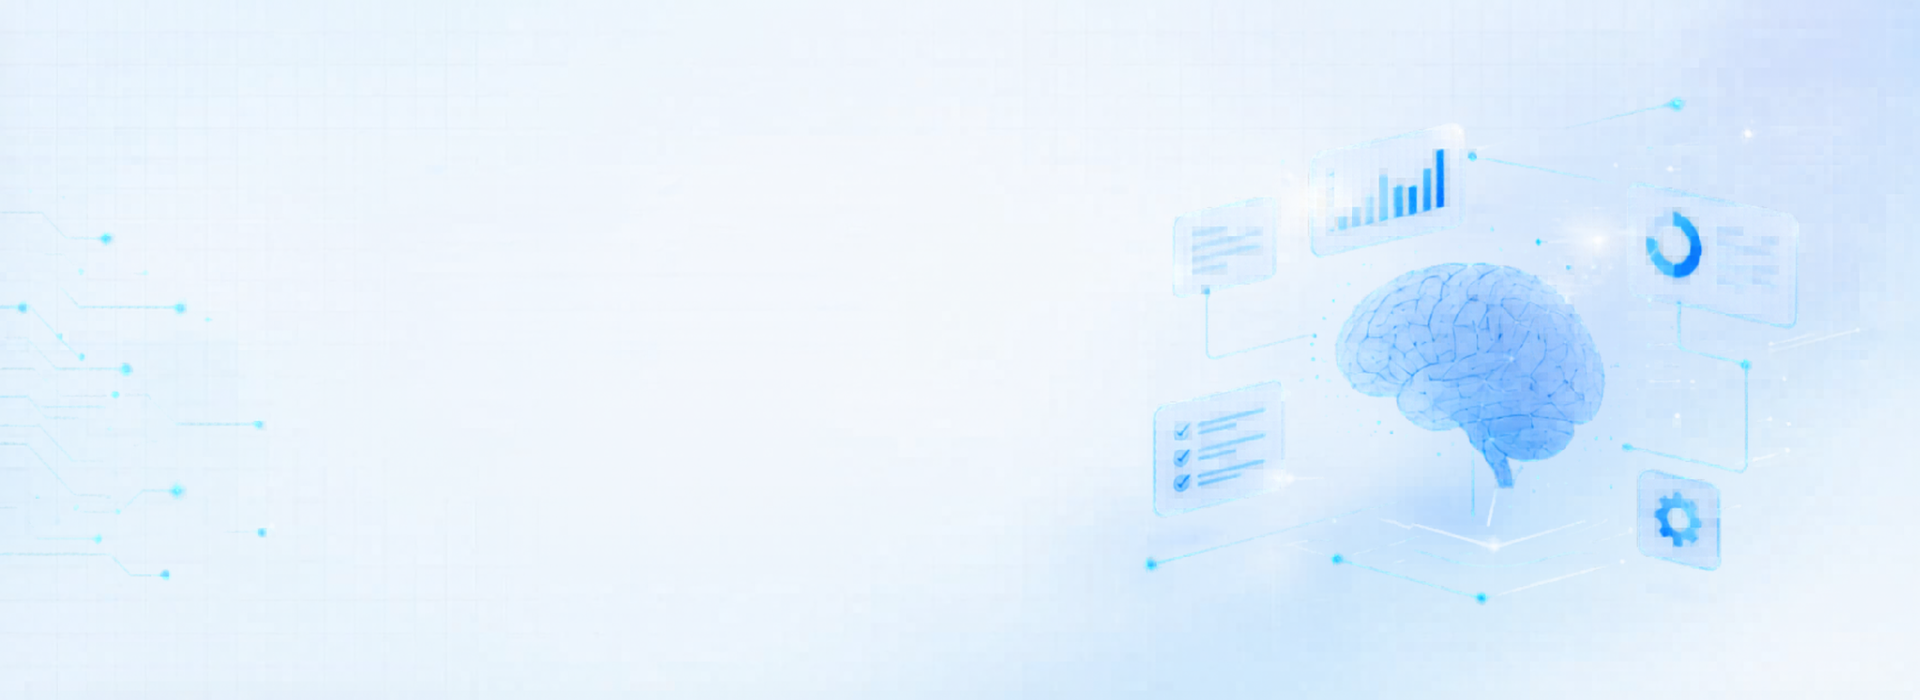
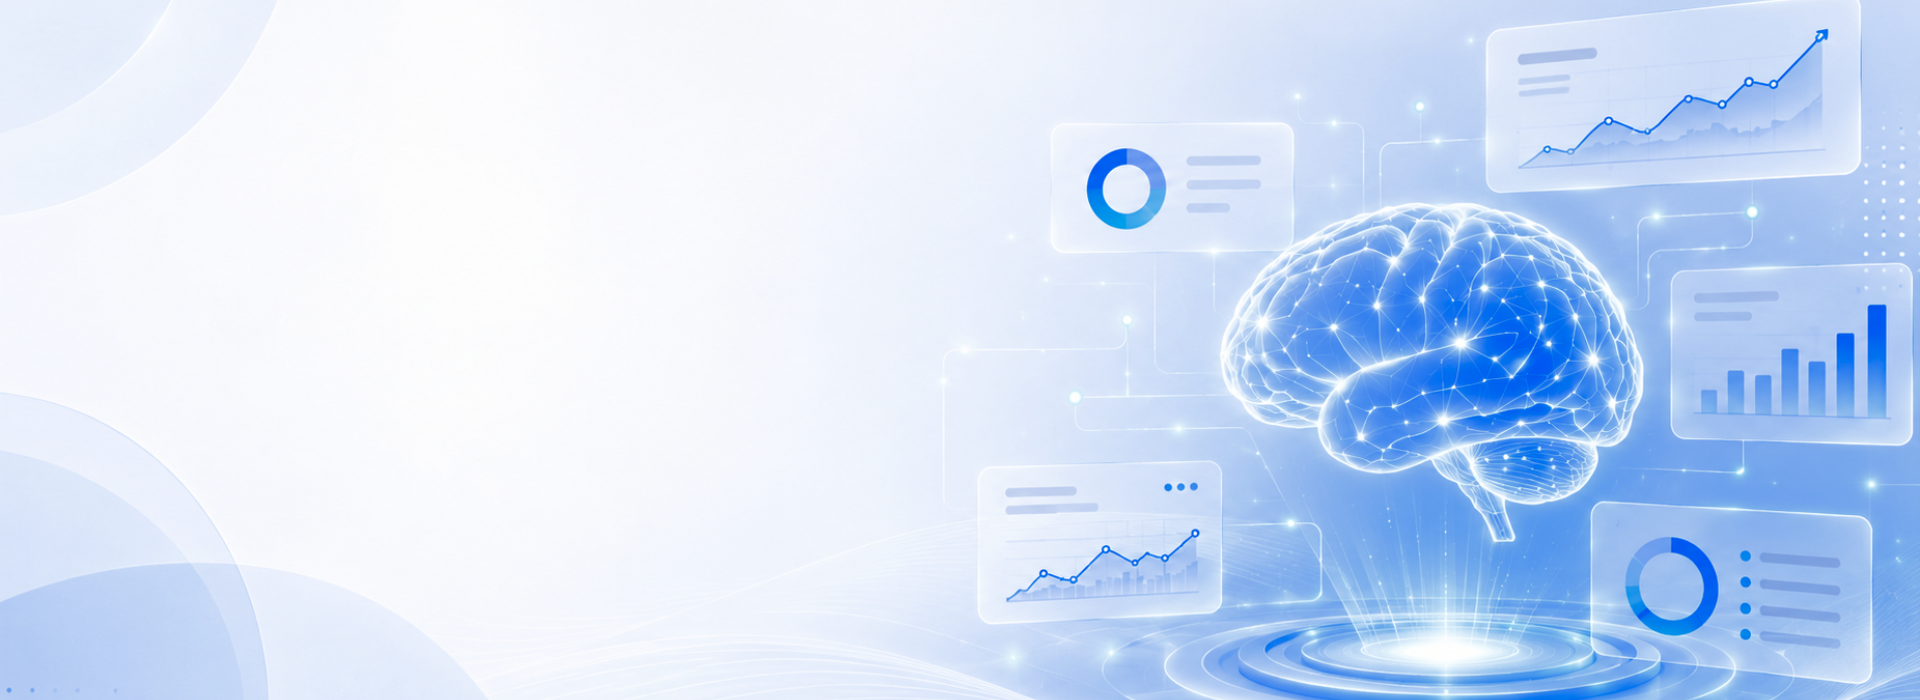
Update content and image

diff --git a/client/src/pages/QuizAI.tsx b/client/src/pages/QuizAI.tsx
@@ -2,7 +2,6 @@ import { useMemo, useState } from "react";
 import { useLocation } from "wouter";
 
 import { FinalCTA } from "@/components/ui/cta/FinalCTA";
-import { InternalHero } from "@/components/ui/hero/InternalHero";
 import { quizContentEn } from "@/content/en/quiz";
 import { quizContentPt } from "@/content/pt/quiz";
 import { Icons } from "@/lib/icons";
@@ -29,6 +28,22 @@ export default function QuizAI() {
   const content = quizContent[lang];
   const questions = content.questions;
   const question = questions[current];
+  const startIntro =
+    lang === "en"
+      ? {
+          badge: "Free quiz · 3 minutes",
+          title: "What is the AI potential",
+          highlight: "in your business?",
+          subtitle: "Answer 10 questions about your business and discover where artificial intelligence can have the biggest impact, with a personalized report at the end.",
+          stats: ["3 minutes", "10 questions", "Instant result"],
+        }
+      : {
+          badge: "Quiz gratuito · 3 minutos",
+          title: "Qual o potencial de IA",
+          highlight: "no seu negócio?",
+          subtitle: "Responda a 10 perguntas sobre o seu negócio e descubra em que áreas a inteligência artificial pode ter mais impacto — com um relatório personalizado no final.",
+          stats: ["3 minutos", "10 perguntas", "Resultado imediato"],
+        };
 
   const result = useMemo(() => {
     return content.results.find((item) => score <= item.max) ?? content.results[content.results.length - 1];
@@ -68,8 +83,6 @@ export default function QuizAI() {
 
   return (
     <main className="quiz-ai-page">
-      <InternalHero label={content.badge} title={content.title} highlight={`${content.highlight}?`} subtitle={content.subtitle} compact />
-
       <section className="quiz-experience">
         <div className="quiz-bg-radials" />
 
@@ -77,22 +90,36 @@ export default function QuizAI() {
           <div className="quiz-screen quiz-start anim-in">
             <div className="quiz-start-inner">
               <div className="quiz-badge anim-in anim-d1">
-                <Icons.Zap size={14} />
-                <span>{content.badge}</span>
+                <span className="quiz-badge-dot" aria-hidden="true" />
+                <span>{startIntro.badge}</span>
               </div>
 
               <h2 className="quiz-title anim-in anim-d2">
-                {content.title} <span className="neon-blue neon-text-glow">{content.highlight}</span>?
+                <span>{startIntro.title}</span>
+                <span className="quiz-title-highlight">{startIntro.highlight}</span>
               </h2>
 
-              <p className="quiz-subtitle anim-in anim-d3">{content.subtitle}</p>
+              <p className="quiz-subtitle anim-in anim-d3">{startIntro.subtitle}</p>
+
+              <div className="quiz-start-stats anim-in anim-d3" aria-label={content.duration}>
+                <span>
+                  <Icons.Clock size={18} />
+                  {startIntro.stats[0]}
+                </span>
+                <span>
+                  <Icons.Target size={18} />
+                  {startIntro.stats[1]}
+                </span>
+                <span>
+                  <Icons.BarChart3 size={18} />
+                  {startIntro.stats[2]}
+                </span>
+              </div>
 
               <button type="button" onClick={startQuiz} className="quiz-main-btn">
                 {content.startButton}
                 <Icons.ArrowRight size={18} />
               </button>
-
-              <p className="quiz-duration">{content.duration}</p>
             </div>
           </div>
         )}

diff --git a/client/src/styles/quizAI.css b/client/src/styles/quizAI.css
@@ -28,14 +28,30 @@
 .neon-text-glow { text-shadow: 0 0 10px rgba(10, 180, 255, 0.25), 0 0 20px rgba(85, 212, 242, 0.15); }
 .quiz-screen { position: relative; z-index: 2; min-height: 100vh; padding: 24px; display: flex; align-items: center; justify-content: center; }
 .quiz-start, .quiz-result { flex-direction: column; text-align: center; }
+.quiz-start {
+  min-height: calc(100vh - 112px);
+  padding: 72px 24px 64px;
+  background-color: #f8fbff;
+  background-image:
+    linear-gradient(rgba(10, 132, 255, 0.055) 1px, transparent 1px),
+    linear-gradient(90deg, rgba(10, 132, 255, 0.055) 1px, transparent 1px),
+    radial-gradient(circle at 92% 12%, rgba(10, 132, 255, 0.08), transparent 34%);
+  background-size: 73px 73px, 73px 73px, auto;
+}
 .quiz-start-inner, .quiz-result-inner { width: 100%; max-width: 760px; display: flex; flex-direction: column; align-items: center; text-align: center; }
+.quiz-start-inner { max-width: 940px; }
 .quiz-logo { max-width: 400px; width: 80%; max-height: 100px; object-fit: contain; margin-bottom: 32px; }
-.quiz-badge { display: inline-flex; align-items: center; justify-content: center; gap: 8px; margin-bottom: 16px; padding: 6px 14px; border: 1px solid rgba(10, 180, 255, 0.24); border-radius: 999px; background: rgba(10, 180, 255, 0.08); color: var(--accent-mid); font-family: var(--font-detail); font-size: 12px; font-weight: 700; letter-spacing: 0.18em; text-transform: uppercase; }
-.quiz-title { max-width: 760px; margin: 0 0 16px; font-family: var(--font-heading); font-size: clamp(2rem, 5vw, 4rem); font-weight: 800; line-height: 1.05; text-align: center; color: #001547; }
-.quiz-title .neon-blue, .quiz-title span { color: var(--accent-mid); }
-.quiz-subtitle { max-width: 640px; width: 100%; margin: 0 auto 32px; color: rgba(0, 21, 71, 0.76); font-size: 16px; line-height: 1.6; text-align: center; }
-.quiz-main-btn { display: inline-flex; align-items: center; justify-content: center; gap: 10px; border: 1px solid rgba(85, 212, 242, 0.32); border-radius: 14px; padding: 14px 32px; background: var(--button-bg); color: #EAF6FF; font-family: var(--font-heading); font-size: 15px; font-weight: 800; text-decoration: none; cursor: pointer; box-shadow: 0 0 15px rgba(10, 180, 255, 0.20), 0 0 40px rgba(85, 212, 242, 0.08); transition: transform 0.25s ease, border-color 0.25s ease, background 0.25s ease; }
-.quiz-main-btn:hover { transform: scale(1.03); background: #0ab4ff; border-color: rgba(85, 212, 242, 0.48); }
+.quiz-badge { display: inline-flex; align-items: center; justify-content: center; gap: 10px; margin-bottom: 36px; padding: 10px 22px; border: 1px solid rgba(10, 132, 255, 0.28); border-radius: 999px; background: rgba(221, 237, 255, 0.86); color: rgba(0, 21, 71, 0.58); font-family: var(--font-heading); font-size: 14px; font-weight: 800; letter-spacing: 0.18em; text-transform: uppercase; box-shadow: inset 0 0 0 1px rgba(255, 255, 255, 0.45); }
+.quiz-badge-dot { width: 8px; height: 8px; border-radius: 999px; background: #0877ff; box-shadow: 0 0 16px rgba(8, 119, 255, 0.35); }
+.quiz-title { max-width: 840px; margin: 0 0 18px; font-family: "Playfair Display", var(--font-heading) !important; font-size: clamp(3rem, 7vw, 5.25rem) !important; font-weight: 800; line-height: 1.12; text-align: center; color: #000246; letter-spacing: 0; }
+.quiz-title span { display: block; }
+.quiz-title .quiz-title-highlight { color: #0877ff; }
+.quiz-subtitle { max-width: 900px; width: 100%; margin: 0 auto 54px; color: rgba(0, 21, 71, 0.52); font-family: var(--font-heading); font-size: clamp(1.05rem, 2vw, 1.38rem); line-height: 1.08; text-align: center; }
+.quiz-start-stats { display: flex; flex-wrap: wrap; align-items: center; justify-content: center; gap: 34px; margin-bottom: 54px; color: rgba(0, 21, 71, 0.48); font-family: var(--font-heading); font-size: 16px; font-weight: 500; }
+.quiz-start-stats span { display: inline-flex; align-items: center; gap: 12px; white-space: nowrap; }
+.quiz-start-stats svg { color: #0877ff; stroke-width: 2.2; }
+.quiz-main-btn { display: inline-flex; align-items: center; justify-content: center; gap: 14px; border: 1px solid #0877ff; border-radius: 999px; min-width: 318px; min-height: 72px; padding: 18px 42px; background: #0877ff; color: #fff; font-family: var(--font-heading) !important; font-size: 19px !important; font-weight: 900; text-transform: uppercase; text-decoration: none; cursor: pointer; box-shadow: 0 18px 34px rgba(8, 119, 255, 0.22); transition: transform 0.25s ease, border-color 0.25s ease, background 0.25s ease, box-shadow 0.25s ease; }
+.quiz-main-btn:hover { transform: translateY(-2px); background: #0068e8; border-color: #0068e8; box-shadow: 0 22px 42px rgba(8, 119, 255, 0.28); }
 .quiz-duration { margin-top: 16px; color: rgba(0, 21, 71, 0.68); font-family: var(--font-detail); font-size: 12px; text-align: center; }
 .quiz-container { width: 100%; max-width: 768px; overflow: visible; }
 .quiz-topline { display: flex; justify-content: space-between; margin-bottom: 12px; font-family: var(--font-detail); font-size: 13px; color: #012050; font-weight: 800; }
@@ -76,4 +92,4 @@
 .anim-d3 { animation-delay: 0.3s; }
 @keyframes fadeUp { from { opacity: 0; transform: translateY(20px); } to { opacity: 1; transform: translateY(0); } }
 @media (min-width: 768px) { .quiz-subtitle, .quiz-main-btn, .quiz-topline, .quiz-option, .quiz-option span, .quiz-feedback, .quiz-result > p, .quiz-result-inner > p, .quiz-cta-card h3, .quiz-cta-card p, .quiz-restart { font-size: 14px; } }
-@media (max-width: 640px) { .quiz-screen { padding: 20px; } .quiz-card { padding: 22px; } .quiz-option { font-size: 12px; } .quiz-main-btn { width: 100%; } }
+@media (max-width: 640px) { .quiz-screen { padding: 20px; } .quiz-start { min-height: auto; padding: 48px 18px 56px; background-size: 42px 42px, 42px 42px, auto; } .quiz-badge { margin-bottom: 28px; padding: 9px 14px; font-size: 11px; letter-spacing: 0.14em; } .quiz-title { font-size: clamp(2.45rem, 14vw, 3.8rem) !important; line-height: 1.04; } .quiz-subtitle { margin-bottom: 36px; font-size: 16px; line-height: 1.28; } .quiz-start-stats { gap: 16px; margin-bottom: 36px; font-size: 14px; } .quiz-card { padding: 22px; } .quiz-option { font-size: 12px; } .quiz-main-btn { width: 100%; min-width: 0; min-height: 64px; padding: 16px 24px; font-size: 16px !important; } }

diff --git a/client/src/components/ui/navigation/NavLink.tsx b/client/src/components/ui/navigation/NavLink.tsx
@@ -2,7 +2,6 @@ import { cn } from "@/lib/utils";
 import { cva } from "class-variance-authority";
 import { Link, useLocation } from "wouter";
 import { useMagnetic } from "@/hooks/useMagnetic";
-import { useTheme } from "@/hooks/useTheme";
 
 const navLinkVariants = cva(
   `
@@ -15,7 +14,8 @@ const navLinkVariants = cva(
     variants: {
       variant: {
         default: `
-          text-[var(--brand-primary)] hover:text-[var(--brand-cyan-bright)]
+          text-[#001547]/72 hover:text-[var(--brand-primary)]
+          dark:text-[var(--brand-primary)] dark:hover:text-[var(--brand-cyan-bright)]
 
           after:absolute after:left-0 after:-bottom-2
           after:h-[2px] after:w-full
@@ -42,7 +42,7 @@ const navLinkVariants = cva(
 
       active: {
         true: `
-          text-[var(--brand-deep)] dark:text-[var(--brand-offwhite)]
+          text-[var(--brand-primary)] dark:text-[var(--brand-offwhite)]
 
           after:absolute after:left-0 after:-bottom-2
           after:h-[2px] after:w-full
@@ -75,10 +75,8 @@ export function NavLink({
   onClick
 }: Props) {
   const [location] = useLocation();
-  const { theme } = useTheme();
 
   const isActive = location === href;
-  const activeColor = theme === "dark" ? "var(--brand-offwhite)" : "var(--brand-deep)";
 
   const magnetic = useMagnetic(16);
 
@@ -88,7 +86,6 @@ export function NavLink({
         ref={magnetic.ref}
         onMouseMove={magnetic.onMouseMove}
         onMouseLeave={magnetic.onMouseLeave}
-        style={isActive ? { color: activeColor } : undefined}
         className={cn(
           navLinkVariants({ variant, active: isActive }),
           "inline-block transition-transform duration-300 ease-out",

diff --git a/client/src/components/Header.tsx b/client/src/components/Header.tsx
@@ -6,7 +6,6 @@ import { LanguageSelector } from "@/components/LanguageSelector";
 import { ThemeToggle } from "@/components/ThemeToggle";
 import { PremiumButton } from "@/components/ui/button/PremiumButton";
 import { NavLink } from "@/components/ui/navigation/NavLink";
-import { useTheme } from "@/hooks/useTheme";
 import { useTranslation } from "@/hooks/useTranslation";
 import { Icons } from "@/lib/icons";
 import { cn } from "@/lib/utils";
@@ -17,11 +16,9 @@ interface HeaderProps {
 
 export default function Header({ onContactClick }: HeaderProps) {
   const { t } = useTranslation();
-  const { theme } = useTheme();
   const [location] = useLocation();
   const lang = location.split("/")[1] || "pt";
   const contactLabel = lang === "en" ? "Contact" : "Contacto";
-  const logoSrc = theme === "dark" ? "/media/logos/Logo_Sapiente_fundo_escuro.png" : "/media/logos/Logo_Sapiente_fundo_claro.png";
 
   const [isContactOpen, setIsContactOpen] = useState(false);
   const [isMobileMenuOpen, setIsMobileMenuOpen] = useState(false);
@@ -68,7 +65,8 @@ export default function Header({ onContactClick }: HeaderProps) {
         <div className="container mx-auto px-4 sm:px-6">
           <nav className={cn("grid grid-cols-[auto_1fr_auto] items-center transition-all duration-500", scrolled ? "h-20 md:h-24" : "h-24 md:h-28")}>
             <div className="flex w-[180px] shrink-0 items-center gap-2 xl:w-[210px]">
-              <img src={logoSrc} alt="Sapiente.AI" className="h-[107px] w-auto object-contain md:h-[123px] lg:h-[134px]" />
+              <img src="/media/logos/Logo_Sapiente_fundo_claro.png" alt="Sapiente.AI" className="h-[107px] w-auto object-contain md:h-[123px] lg:h-[134px] dark:hidden" />
+              <img src="/media/logos/Logo_Sapiente_fundo_escuro.png" alt="Sapiente.AI" className="hidden h-[107px] w-auto object-contain md:h-[123px] lg:h-[134px] dark:block" />
             </div>
 
             <div className="hidden min-w-0 items-center justify-center lg:flex">

diff --git a/client/src/pages/FAQ.tsx b/client/src/pages/FAQ.tsx
@@ -4,11 +4,9 @@ import { useLocation } from "wouter";
 import { FAQContactCTA, FAQQuestionLayout, type FAQCategory, type FAQItem } from "@/components/faq/FAQBlocks";
 import { FinalCTA } from "@/components/ui/cta/FinalCTA";
 import { QuizCTA } from "@/components/ui/cta/QuizCTA";
-import { InternalHero } from "@/components/ui/hero/InternalHero";
 import { Reveal } from "@/components/ui/motion/Reveal";
 import { Section } from "@/components/ui/section/Section";
 import { setSEOHead } from "@/components/SEOHead";
-import { useTranslation } from "@/hooks/useTranslation";
 import { generateFAQSchema } from "@/lib/faqSchema";
 import { getContent } from "@/lib/content";
 import { Icons } from "@/lib/icons";
@@ -45,7 +43,6 @@ function getFAQSidebarTitle(lang: string) {
 
 export default function FAQ() {
   const [location] = useLocation();
-  const { t } = useTranslation();
   const lang = location.split("/")[1] || "pt";
   const normalizedLang = lang === "en" ? "en" : "pt";
 
@@ -83,8 +80,6 @@ export default function FAQ() {
 
   return (
     <div className="flex flex-col">
-      <InternalHero label={t("nav.faq")} title={content.title} subtitle={content.subtitle} />
-
       <Section className="standard-section-bg relative flex-grow overflow-hidden py-24 md:py-36">
         <div className="relative z-10 mx-auto max-w-6xl px-6">
           <Reveal>